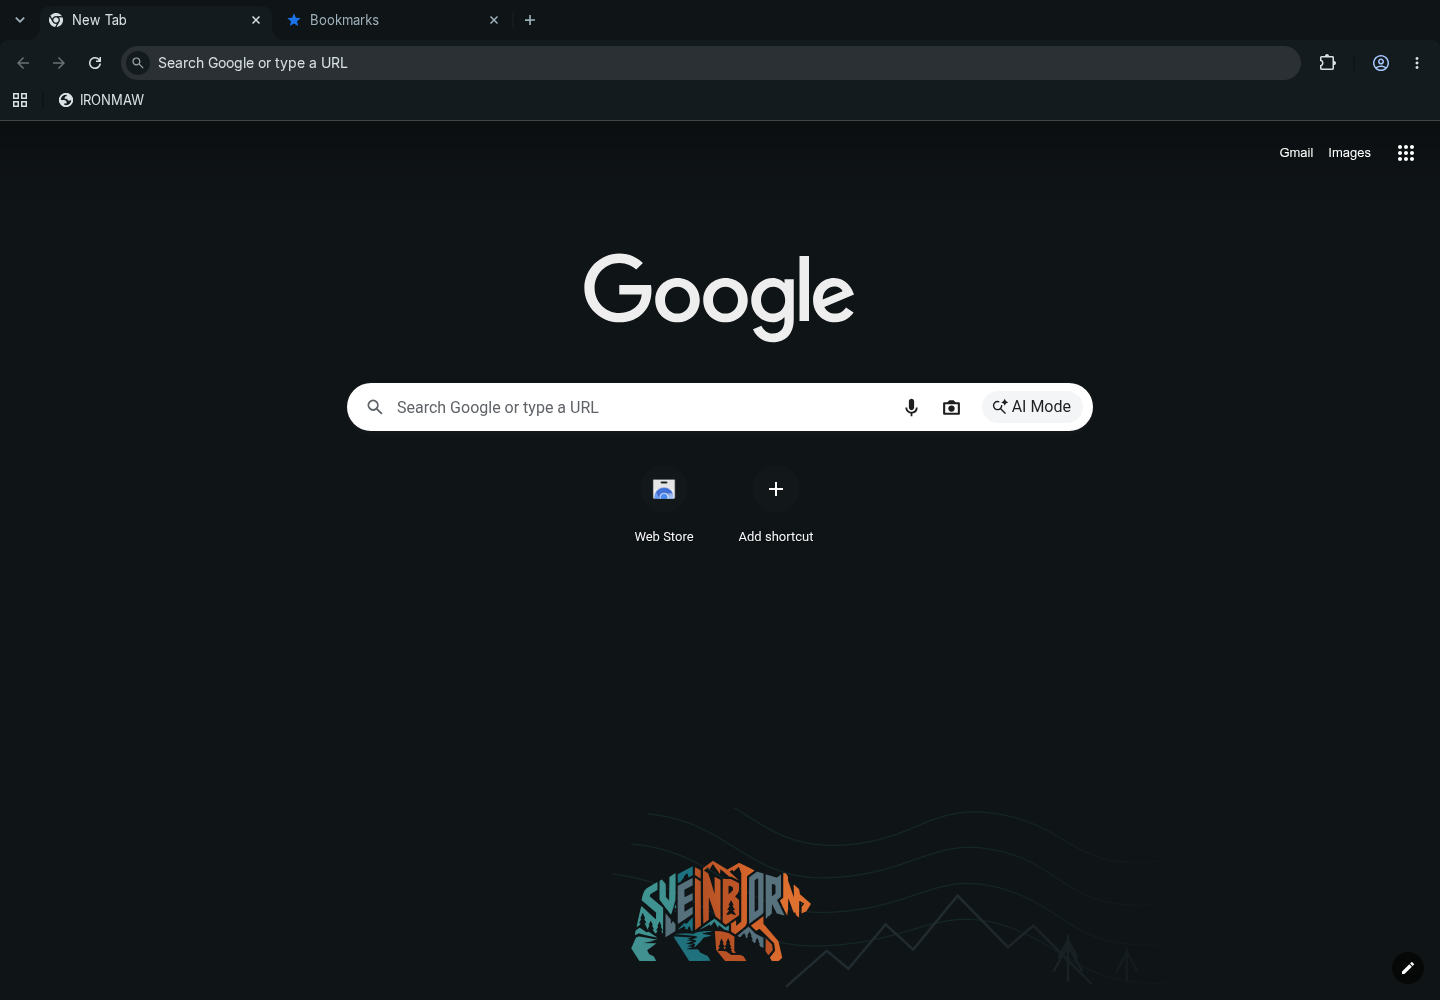
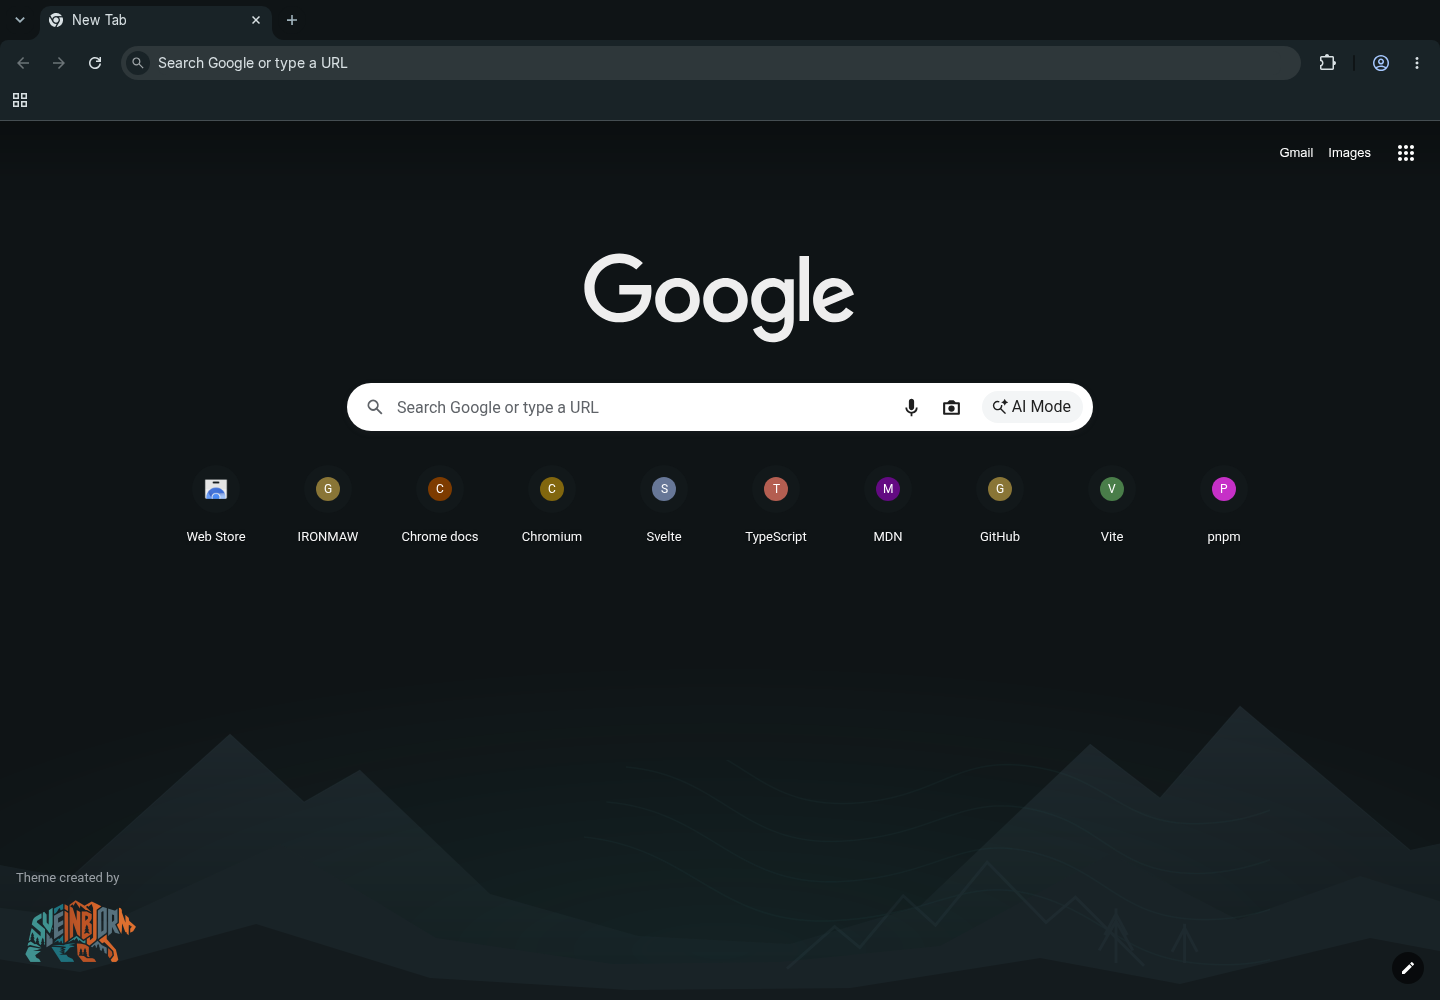
feat: refine Oxide Chrome landscape and native attribution

diff --git a/chrome-theme/README.md b/chrome-theme/README.md
@@ -1,11 +1,26 @@
 # IRONMAW Oxide for Chrome
 
-Charcoal browser surfaces, readable mist text, teal links, and the original
-bear over quiet terrain at the bottom of the new-tab page. The browser keeps
+Charcoal browser surfaces, readable mist text, teal links, and layered slate
+ridges under a quiet teal horizon. The original bear signs the lower-left
+corner through Chrome's native theme attribution. The browser keeps
 its normal search and shortcuts. This is a Manifest V3 theme: no scripts,
 permissions, tracking, or network resources.
 
 ![IRONMAW Oxide in Chromium, with the bookmarks bar visible](preview.png)
+
+The visual direction takes inspiration from
+[the-glorious-startpage](https://github.com/manilarome/the-glorious-startpage):
+broad scenery, depth between surfaces, and a clear area for the primary task.
+This theme uses original vector composition and IRONMAW assets and tokens;
+no artwork or code from the reference is bundled. Chrome retains search,
+shortcuts and its own controls.
+
+<details>
+<summary>Compact window with ten native shortcuts (1000 x 720)</summary>
+
+![IRONMAW Oxide with two shortcut rows](preview-compact.png)
+
+</details>
 
 ## Install and remove
 
@@ -43,7 +58,7 @@ payload; Chrome Web Store publication is a separate step.
 Edit `scripts/theme-colors.mjs` for mappings, `scripts/build-chrome-theme.mjs`
 for composition, and the DTCG source tokens for palette changes. The build runs
 the complete token pipeline, including egui, and refreshes the generated brand
-modules. It reuses the cleaned full bear for both artwork and package icons.
+modules. It reuses the cleaned full bear for attribution and package icons.
 `assets/brand/terrain.svg` is the shared source for Panel and the theme; paths
 and bear colors are preserved. Commit regenerated outputs alongside source
 changes. Bump the manifest version in the generator
@@ -61,23 +76,36 @@ The commands avoid shell globs and Unix directory commands; Windows still needs
 `rsvg-convert` and Info-ZIP `zip` on PATH and has not been exercised here.
 
 The background is 1920 x 1080, centered horizontally, bottom-aligned, and never
-tiled. Its charcoal edges blend into the new-tab background on larger windows;
-smaller windows crop the decoration. Very short windows can place browser-owned
-content over it. Chrome determines its own focus rings, shortcut tiles, and
+tiled. Its upper 740 pixels and outer edges are plain charcoal; the lower
+landscape fades into that background on larger windows. Smaller windows crop
+the scenery, while the separate 128 x 96 bear attribution stays anchored by
+Chrome. The toolbar uses `surface-2` and the omnibox requests `surface-1` to
+separate browser surfaces. Chrome determines its own focus rings, shortcut tiles, and
 some incognito colors; a theme cannot apply the full Svelte design system or
 custom fonts to browser UI.
 
 ## Validation
 
-Observed on Chromium 156.0.8078.79 on Linux/Xvfb: unpacked theme loading,
-1440 x 1000 and 1000 x 720 windows, active/inactive tabs,
-toolbar icons, omnibox, bookmarks, and the new-tab artwork. Incognito retained
-Chromium's default gray appearance and did not show the themed background.
-The preview above is a browser capture, not a mockup.
+Version 1.1.0 was loaded from the extracted ZIP in Chromium 156.0.8078.79 on
+Linux/Xvfb. The 1440 x 1000 and 1000 x 720 windows were checked with the
+bookmarks bar and ten native shortcuts, after dismissing Chrome's installation
+notice: the bear stays clear of both shortcut rows. At 800 x 600, Chrome scrolls
+the shortcut area and its fixed attribution
+can overlap the first row; use at least the tested 1000 x 720 size for this
+layout. Browser notices that reduce the available page height can also cause
+overlap. The previews are browser captures, not mockups. Their sample shortcuts
+were added only to the disposable test profile and are not installed by the theme.
+
+The 1.0.0 browser pass also checked incognito, which retained Chromium's
+default gray appearance without the themed background. Incognito was not
+retested for 1.1.0.
 
 The theme and existing palette checks cover RGB values, semantic mappings,
-asset paths and PNG dimensions, and text contrast. The ZIP inventory is checked
-separately. Google Chrome itself, Windows/macOS, HiDPI, and Chrome Web Store
+asset paths and PNG dimensions, and text contrast. A pixel check of the 1.1.0
+background also found minimum contrast of 10.89:1 for text, 5.67:1 for headers
+and 4.62:1 for teal links across the complete landscape. This pixel check was
+run separately with Pillow; it is not part of the Vitest suite. The ZIP inventory
+is checked separately. Google Chrome itself, Windows/macOS, HiDPI, and Chrome Web Store
 installation have not been tested. Xvfb did not establish native window-manager
 inactive-frame behavior. No personal browser profile was modified.
 
